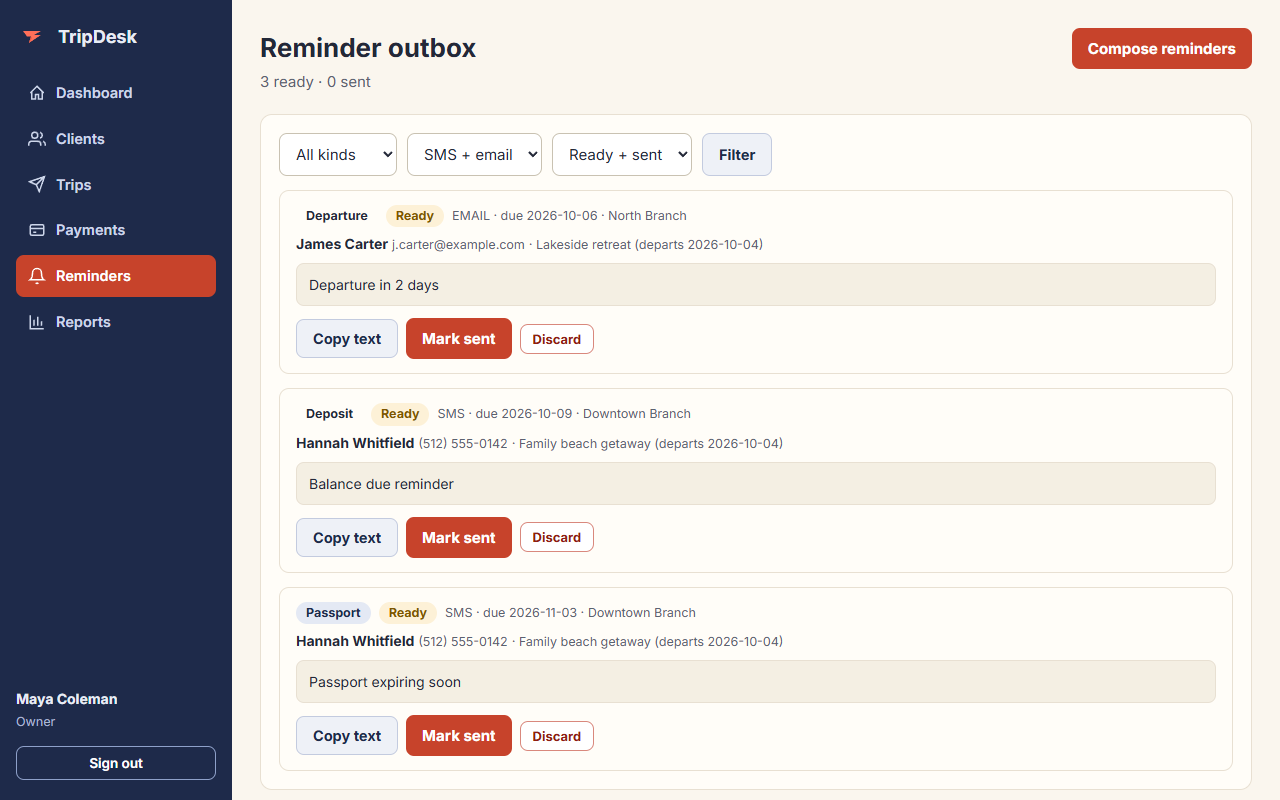
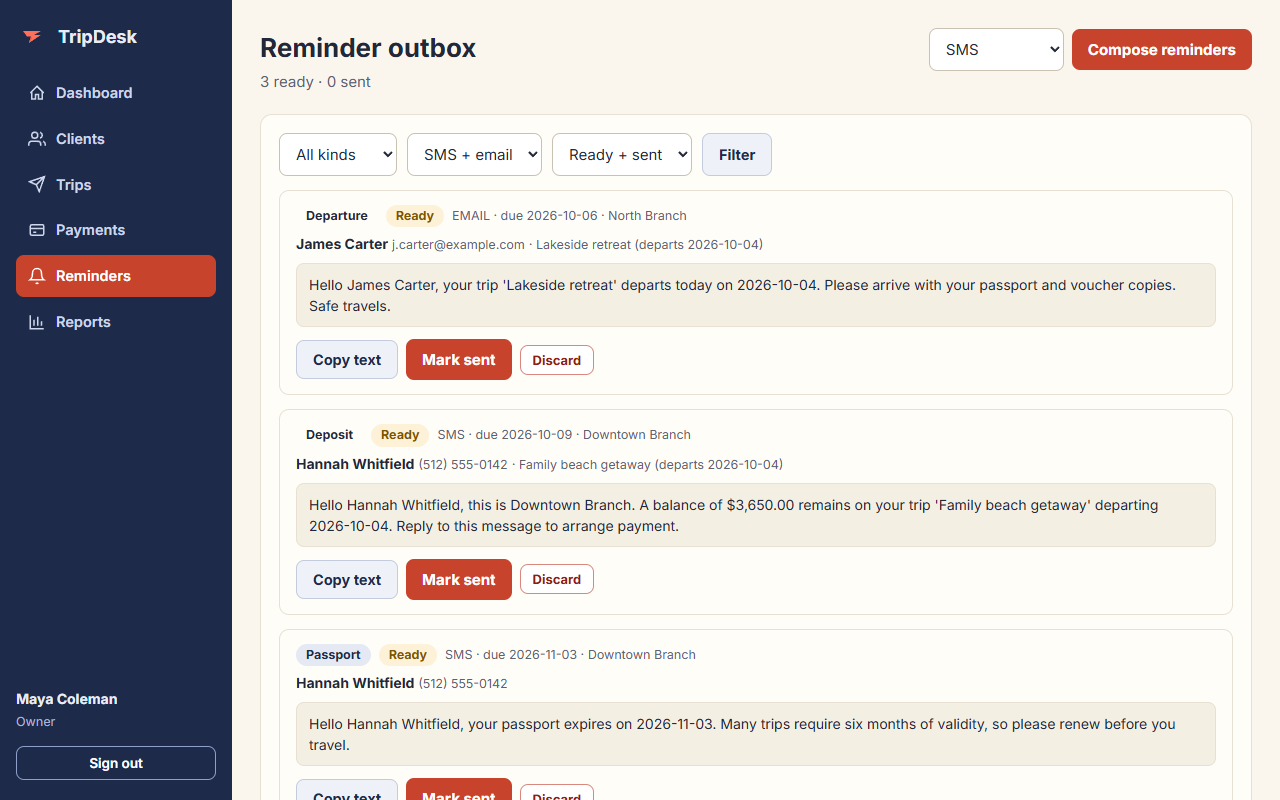
Add reminder channels, real seed copy and flash notices

diff --git a/templates/reminders/list.html b/templates/reminders/list.html
@@ -6,7 +6,13 @@
     <h1>Reminder outbox</h1>
     <p class="muted">{{ ready_count }} ready · {{ sent_count }} sent</p>
   </div>
-  <form method="post" action="{{ url_for('reminder_generate') }}">
+  <form class="compose" method="post" action="{{ url_for('reminder_generate') }}">
+    <label class="visually-hidden" for="compose-channel">Channel</label>
+    <select id="compose-channel" name="channel">
+      <option value="sms">SMS</option>
+      <option value="email">Email</option>
+      <option value="both">SMS + email</option>
+    </select>
     <button type="submit" class="btn-primary btn-auto">Compose reminders</button>
   </form>
 </header>

diff --git a/static/css/style.css b/static/css/style.css
@@ -83,6 +83,13 @@ input:focus { outline: 2px solid var(--coral); outline-offset: 0; border-color: 
   border-radius: 8px; padding: 10px 12px; margin: 12px 0; font-size: 14px;
 }
 
+.notice {
+  background: #e2f2e7; color: #145c32; border: 1px solid #a9d4b8;
+  border-radius: 8px; padding: 10px 12px; margin: 0 0 14px; font-size: 14px; font-weight: 600;
+}
+
+.compose { display: flex; gap: 8px; align-items: center; flex-wrap: wrap; }
+
 .shell { display: flex; min-height: 100vh; }
 .sidebar {
   width: 232px; flex-shrink: 0; background: var(--navy); color: #e8ecf5;

diff --git a/templates/app.html b/templates/app.html
@@ -20,6 +20,14 @@
       <form method="post" action="{{ url_for('logout') }}"><button type="submit" class="btn-outline">Sign out</button></form>
     </div>
   </aside>
-  <main class="content">{% block content %}{% endblock %}</main>
+  <main class="content">
+  {% with messages = get_flashed_messages() %}
+  {% if messages %}
+  {% for message in messages %}
+  <div class="notice" role="status">{{ message }}</div>
+  {% endfor %}
+  {% endif %}
+  {% endwith %}
+  {% block content %}{% endblock %}</main>
 </div>
 {% endblock %}

diff --git a/tests/test_reminders.py b/tests/test_reminders.py
@@ -15,7 +15,7 @@ def test_accountant_cannot_open_reminders(client):
 def test_outbox_lists_drafts_with_copy(client):
     login_as(client, "agent@tripdesk.local")
     body = client.get("/reminders").data.decode()
-    assert "Balance due reminder" in body
+    assert "balance of $" in body
     assert "Copy text" in body
     assert "Mark sent" in body
 
@@ -37,10 +37,10 @@ def test_mark_sent_and_discard(client):
     sent = client.post("/reminders/1/sent", follow_redirects=False)
     assert sent.status_code == 302
     body = client.get("/reminders?status=sent").data.decode()
-    assert "Balance due reminder" in body
+    assert "balance of $" in body
     discarded = client.post("/reminders/3/delete", follow_redirects=False)
     assert discarded.status_code == 302
-    assert "Passport expiring soon" not in client.get("/reminders").data.decode()
+    assert "six months of validity" not in client.get("/reminders").data.decode()
 
 
 def test_manager_scoped_to_own_branch(client):
